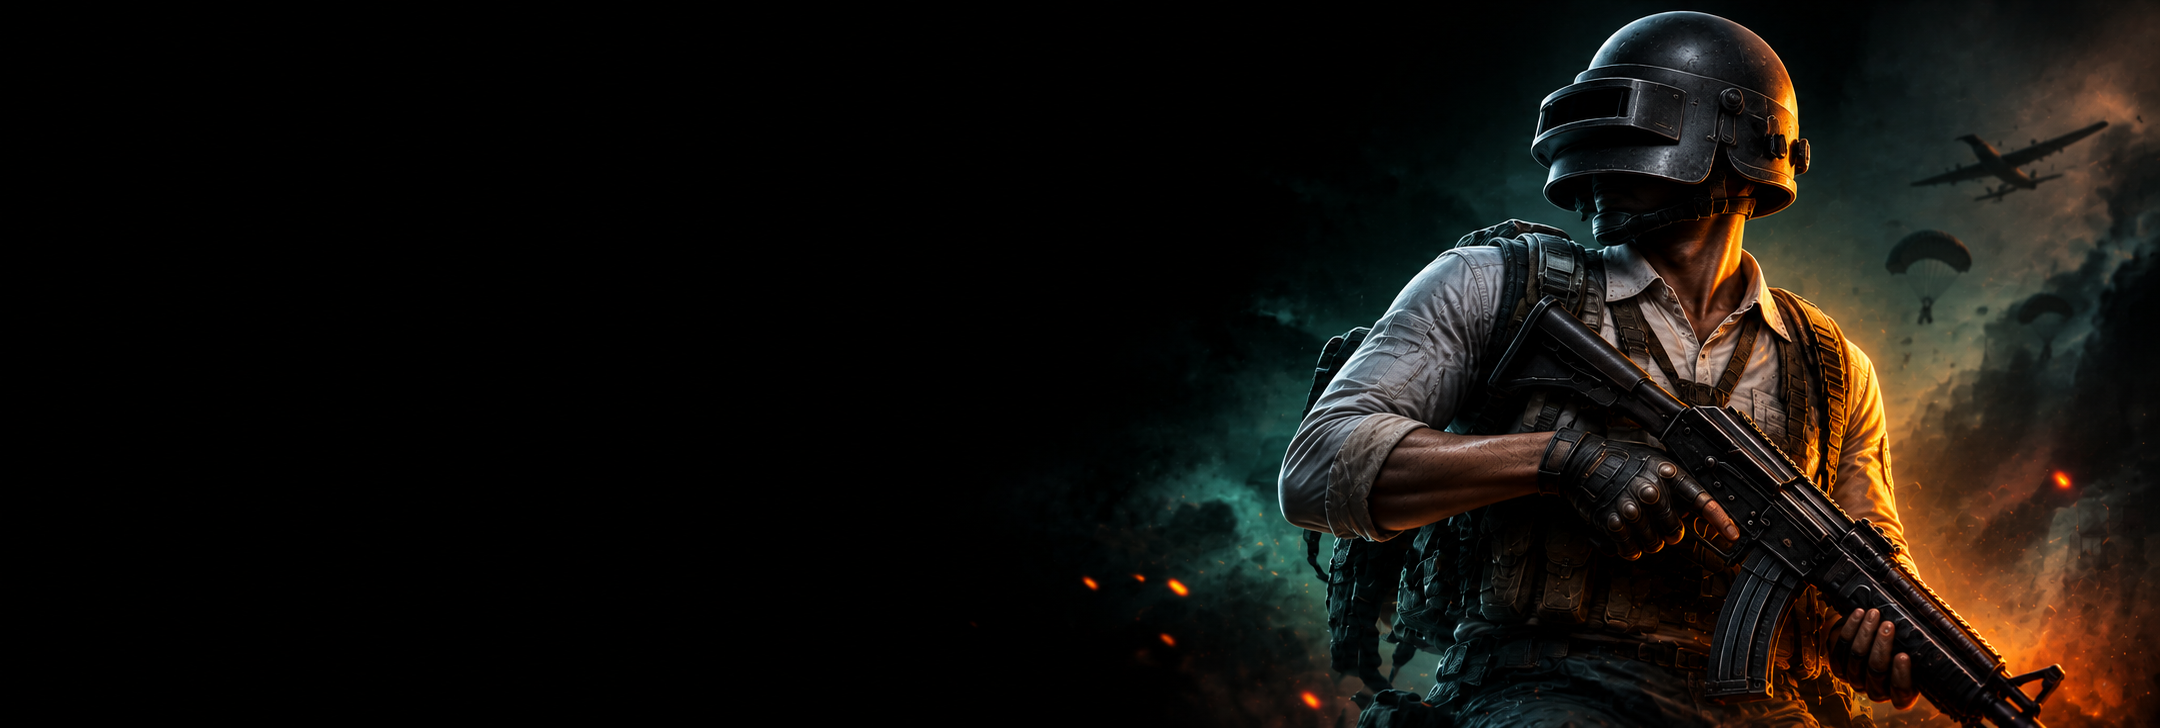
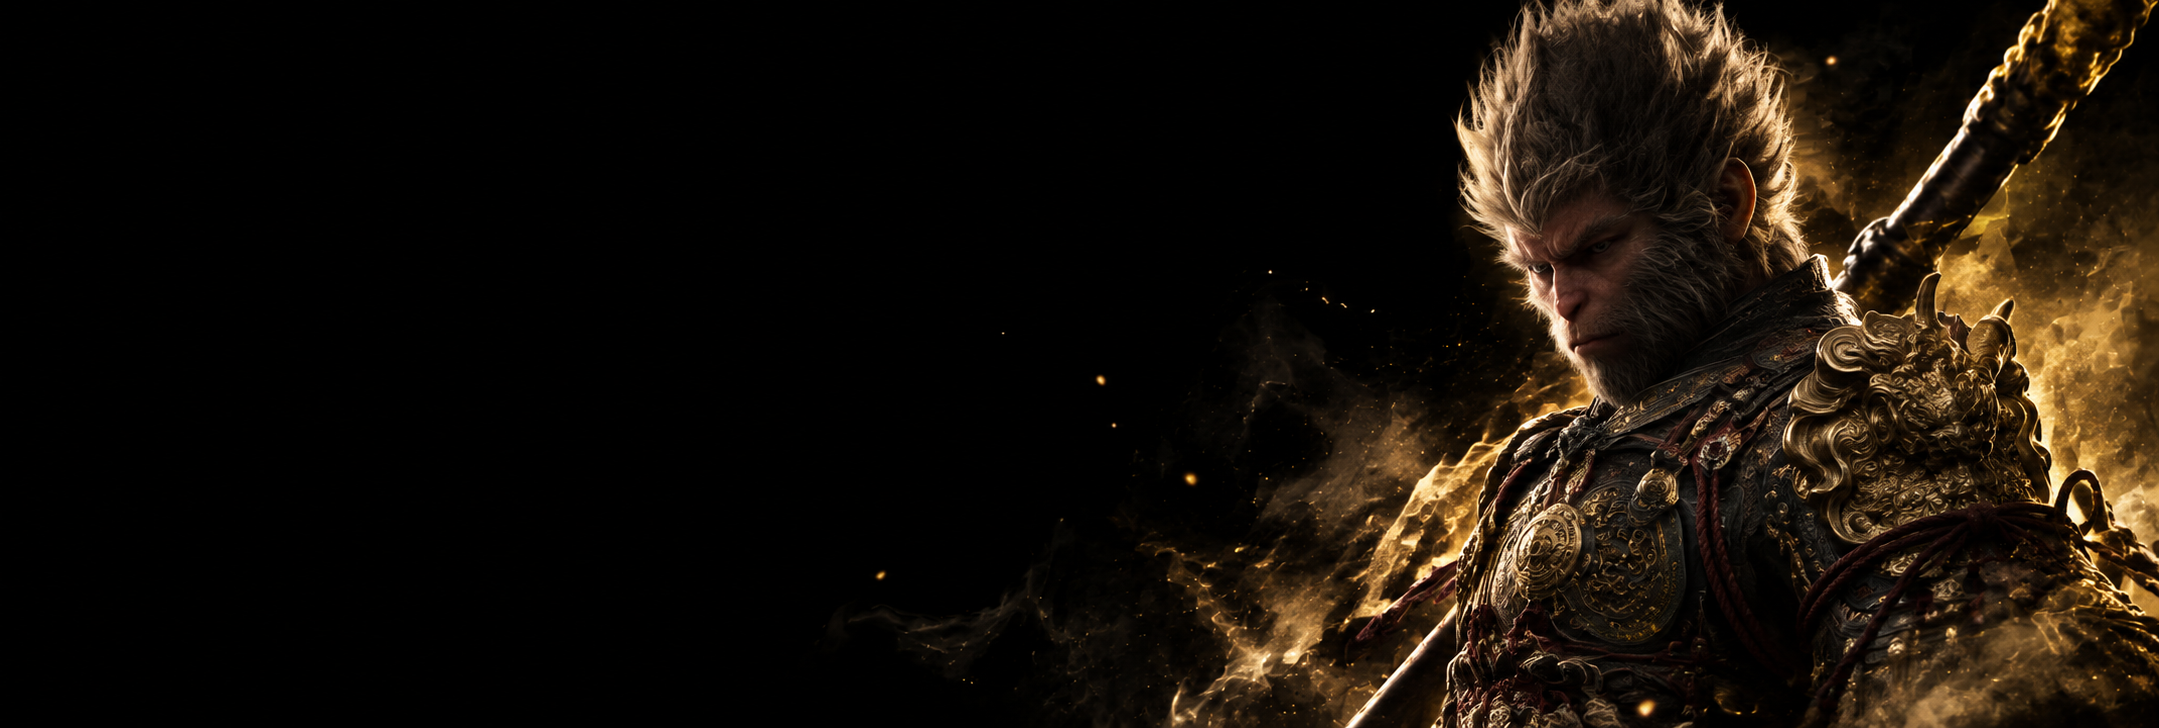
feat: added animations to the hero slider

Changed region(s): [[0.4965, 0.0, 1.0, 1.0], [0.4034, 0.8159, 0.4965, 0.8764]]

diff --git a/src/features/dashboard/components/Hero.tsx b/src/features/dashboard/components/Hero.tsx
@@ -1,5 +1,6 @@
 "use client";
 
+import { AnimatePresence, motion } from "motion/react";
 import { CommonButton } from "@/components/common";
 import CommonBadge from "@/components/common/CommonBadge";
 import { Box, Stack } from "@mui/material";
@@ -30,6 +31,13 @@ export default function Hero() {
     const sliderRef = useRef<HTMLDivElement | null>(null);
     const touchStartX = useRef<number | null>(null);
     const isScrolling = useRef(false);
+    
+    useEffect(()=>{
+        const autoSlider = setTimeout(() => {
+            setCurrentIndex((prevIndex) => (prevIndex + 1) % HERO_DATA.length);
+        }, 5000);
+        return () => clearTimeout(autoSlider);
+    }, [currentIndex]);
 
     useEffect(() => {
         const slider = sliderRef.current;
@@ -139,124 +147,136 @@ export default function Hero() {
                     touchAction: "pan-y",
                 }}
             >
-                <Stack
-                    sx={{
-                        flexDirection: {
-                            lg: "row",
-                            md: "row",
-                            sm: "row",
-                            xs: "column",
-                        },
-                        gap: 3,
-                        alignItems: "center",
-                        justifyContent: "space-between",
-                    }}
-                >
+                <AnimatePresence mode="wait">
                     <Stack
                         sx={{
-                            alignItems: "flex-start",
-                            justifyContent: "center",
-                            gap: 1.5,
-                            flex: {
-                                lg: 1,
-                                md: 2,
-                                sm: 2,
-                                xs: 1,
+                            flexDirection: {
+                                lg: "row",
+                                md: "row",
+                                sm: "row",
+                                xs: "column",
                             },
+                            gap: 3,
+                            alignItems: "center",
+                            justifyContent: "space-between",
                         }}
                     >
-                        <Box>
-                            <CommonBadge
-                                icon={
-                                    <BadgeIcon
-                                        sx={{
-                                            ...theme.typography.dashboard.title,
-                                            color: [HERO_DATA[currentIndex].badge.iconColor],
-                                        }}
-                                    />
-                                }
-                                textOne={HERO_DATA[currentIndex].badge.textOne}
-                                textTwo={HERO_DATA[currentIndex].badge.textTwo}
-                            />
-                        </Box>
-                        <Box
-                            sx={{
-                                ...theme.typography.dashboard.heroTitle,
-                                textAlign: "left",
-                                fontWeight: 700,
-                                lineHeight: 1.15,
-                                width: {
-                                    lg: "80%",
-                                    md: "60%",
-                                    sm: "90%",
-                                    xs: "90%",
-                                },
+                        <motion.div
+                            key={currentIndex}
+                            initial={{ opacity: 0, x: 10 }}
+                            animate={{ opacity: 1, x: 0 }}
+                            exit={{ opacity: 0, x: -10 }}
+                            transition={{
+                                duration: .6,
+                                ease: "easeOut",
                             }}
                         >
-                            {HERO_DATA[currentIndex].title.normalStart}{" "}
-                            <span
-                                style={{
-                                    color: "#8FAE25",
+                            <Stack
+                                sx={{
+                                    alignItems: "flex-start",
+                                    justifyContent: "center",
+                                    gap: 1.5,
+                                    flex: {
+                                        lg: 1,
+                                        md: 2,
+                                        sm: 2,
+                                        xs: 1,
+                                    },
                                 }}
                             >
-                                {HERO_DATA[currentIndex].title.highlighted}
-                            </span>{" "}
-                            {HERO_DATA[currentIndex].title.normalEnd}
-                        </Box>
-                        <Box
+                                <Box>
+                                    <CommonBadge
+                                        icon={
+                                            <BadgeIcon
+                                                sx={{
+                                                    ...theme.typography.dashboard.title,
+                                                    color: [HERO_DATA[currentIndex].badge.iconColor],
+                                                }}
+                                            />
+                                        }
+                                        textOne={HERO_DATA[currentIndex].badge.textOne}
+                                        textTwo={HERO_DATA[currentIndex].badge.textTwo}
+                                    />
+                                </Box>
+                                <Box
+                                    sx={{
+                                        ...theme.typography.dashboard.heroTitle,
+                                        textAlign: "left",
+                                        fontWeight: 700,
+                                        lineHeight: 1.15,
+                                        width: {
+                                            lg: "80%",
+                                            md: "60%",
+                                            sm: "90%",
+                                            xs: "90%",
+                                        },
+                                    }}
+                                >
+                                    {HERO_DATA[currentIndex].title.normalStart}{" "}
+                                    <span
+                                        style={{
+                                            color: "#8FAE25",
+                                        }}
+                                    >
+                                        {HERO_DATA[currentIndex].title.highlighted}
+                                    </span>{" "}
+                                    {HERO_DATA[currentIndex].title.normalEnd}
+                                </Box>
+                                <Box
+                                    sx={{
+                                        ...theme.typography.dashboard.text,
+                                        textAlign: "left",
+                                        width: {
+                                            lg: "100%",
+                                            md: "70%",
+                                            sm: "80%",
+                                            xs: "60%",
+                                        },
+                                    }}
+                                >
+                                    {HERO_DATA[currentIndex].description}
+                                </Box>
+                                <Box>
+                                    <CommonButton
+                                        endIcon={<ChevronRightIcon />}
+                                        endIconEnabled={true}
+                                        text={HERO_DATA[currentIndex].cta.text}
+                                    />
+                                </Box>
+                            </Stack>
+                        </motion.div>
+                        <Stack
                             sx={{
-                                ...theme.typography.dashboard.text,
-                                textAlign: "left",
-                                width: {
-                                    lg: "100%",
-                                    md: "70%",
-                                    sm: "80%",
-                                    xs: "60%",
+                                flex: {
+                                    lg: 2,
+                                    md: 1,
+                                    sm: 1,
+                                    xs: 0,
+                                },
+                                alignItems: "flex-end",
+                                justifyContent: "center",
+                                gap: 1.4,
+                                flexDirection: {
+                                    lg: "column",
+                                    md: "column",
+                                    sm: "column",
+                                    xs: "row",
                                 },
                             }}
                         >
-                            {HERO_DATA[currentIndex].description}
-                        </Box>
-                        <Box>
-                            <CommonButton
-                                endIcon={<ChevronRightIcon />}
-                                endIconEnabled={true}
-                                text={HERO_DATA[currentIndex].cta.text}
+                            <CommonCarouselDots
+                                currentActiveIndex={currentIndex}
+                                count={HERO_DATA.length}
+                                isHorizontal={{
+                                    lg: false,
+                                    md: false,
+                                    sm: false,
+                                    xs: true,
+                                }}
                             />
-                        </Box>
+                        </Stack>
                     </Stack>
-
-                    <Stack
-                        sx={{
-                            flex: {
-                                lg: 2,
-                                md: 1,
-                                sm: 1,
-                                xs: 0,
-                            },
-                            alignItems: "flex-end",
-                            justifyContent: "center",
-                            gap: 1.4,
-                            flexDirection: {
-                                lg: "column",
-                                md: "column",
-                                sm: "column",
-                                xs: "row",
-                            },
-                        }}
-                    >
-                        <CommonCarouselDots
-                            currentActiveIndex={currentIndex}
-                            count={HERO_DATA.length}
-                            isHorizontal={{
-                                lg: false,
-                                md: false,
-                                sm: false,
-                                xs: true,
-                            }}
-                        />
-                    </Stack>
-                </Stack>
+                </AnimatePresence>
             </Box>
         </>
     );

diff --git a/src/components/common/CommonCarouselDots.tsx b/src/components/common/CommonCarouselDots.tsx
@@ -29,6 +29,7 @@ export default function CommonCarouselDots({
                         width: '10px',
                         height: '10px',
                         backgroundColor: alpha(theme.palette.primary.main, 0.5),
+                        transition: 'all 0.3s ease',
                         borderRadius: '50%',
                         ...currentActiveIndex === index && {
                             width: {
